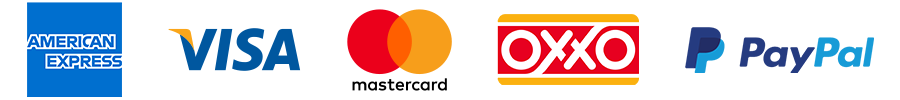
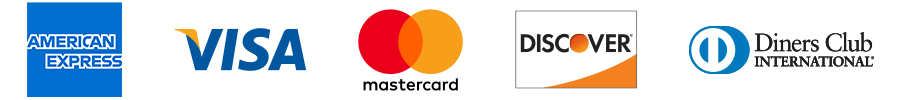
Updates
Last changes + Aviso de Privacidad

Changed region(s): [[0.3733, 0.09, 0.7156, 0.93], [0.7467, 0.24, 0.9956, 0.75], [0.1867, 0.27, 0.3422, 0.72]]

diff --git a/privacidad.html b/privacidad.html
@@ -1,0 +1,69 @@
+<!DOCTYPE HTML>
+<html>
+	<head>
+		<title>Aviso de Privacidad: Dynamic Network® Group</title>
+		<meta charset="utf-8" />
+		<meta http-equiv="X-UA-Compatible" content="ie=edge" />
+    	<link rel="icon" href="trin.ico" type="image/x-icon" />
+		<meta name="viewport" content="width=device-width, initial-scale=1, user-scalable=no" />
+		<link rel="stylesheet" href="assets/css/main.css" />
+		<noscript><link rel="stylesheet" href="assets/css/noscript.css" /></noscript>
+		<link rel="stylesheet" type="text/css" href="https://stackpath.bootstrapcdn.com/font-awesome/4.7.0/css/font-awesome.min.css">
+	</head>
+	<body class="is-preload">
+		<!-- Wrapper -->
+			<div id="wrapper">
+
+				<!-- Intro -->
+					<section id="intro" class="wrapper style1 fullscreen fade-up">
+						<div class="inner">
+							<div style="text-align: center; margin-top: inherit;">
+								<a href="index.html" class="iconpriv"><img src="images/logo_dnis.png" class="logoDnis"></a>
+								<h3 style="color: #231f20">Políticas de Privacidad</h3>
+								<div class="txtpriv">
+									<h5>Aviso de Privacidad</h5>
+									<p style="padding-top: 20px;">Con base en la Ley Federal de Protección de Datos Personales en Posesión de Particulares, las plataformas AutoEvalua.com, DynamicNetwork.net y MXCrossBorder.com son operadas por Dynamic Network®, reconocen que la Privacidad y la Seguridad de su información personal es un derecho, por lo cual están comprometidos a resguardar su información personal con los más altos índices de seguridad legal, tecnológica y administrativa. Así mismo, a no vender, alquilar, compartir o divulgar su información personal a terceros con fines ilícitos o contrarios a los de su titular. De acuerdo a lo anterior, el presente “Aviso de Privacidad” se aplica a toda la información, incluyendo la información personal recopilada por AutoEvalua.com, DynamicNetwork.net o MXCrossBorder.com así como terceros* con los que DynamicNetwork® celebre o vaya a celebrar relación contractual, a efecto de brindar servicios personalizados, contando siempre con los mismos niveles de seguridad exigidos por ley. Por lo antes mencionado, y al momento de leer el presente “Aviso de Privacidad”, usted otorga su consentimiento a AutoEvalua.com, DynamicNetwork.net y MXCrossBorder.com para recopilar y utilizar sus datos personales para los fines que más adelante se especifican. Se entenderá que ha otorgado su consentimiento, si usted no manifiesta su oposición para que sus datos personales sean transferidos al presentarle el presente aviso de privacidad.</p>
+									<p>En general datos personales. En la recopilación y tratamiento de dicha información DynamicNetwork® se compromete y obliga observar y cumplir los principios de licitud, consentimiento, información, calidad, finalidad, lealtad, proporcionalidad y responsabilidad. Esto es, todos los datos que le solicitamos son recabados de manera lícita conforme a Ley Federal de Protección de Datos en Posesión de los Particulares, con el consentimiento de usted, recopilando única y exclusivamente los datos, pertinentes, correctos y actualizados.</p>
+									<br>
+									<h5>¿Cuándo recopilamos la información?</h5>
+									<p>Cuando solicita nuestros servicios a través de nuestros agentes de ventas o cuando ellos se los ofrecen, cuando visita nuestro sitio web en internet, en puntos de venta y por medio telefónico cuando nos solicita una actualización o modificación a los datos registrados previamente en contrato. Los datos que requerimos son: Nombre, Dirección, Teléfono, correo electrónico, edad, género, lugar y fecha de nacimiento, R.F.C., C.U.R.P., datos del vehículo a asegurar, entre otros.</p>
+									<br>
+									<h5>¿Para qué, utilizamos o compartimos la información?</h5>
+									<p>Utilizamos la información personal que usted nos proporciona, solo para brindarle los productos y servicios que nos solicita y para informarle de nuestros nuevos productos o bien para identificarlo en cualquier tipo de relación jurídica o de negocios con DynamicNetwork® así como terceros*.</p>
+									<p style="font-size: .7em !important; color: #403c3d !important;">* Terceros son aquellas empresas (aseguradoras y/o proveedores) que son debidamente contratadas con cláusulas de confidencialidad de información y de protección de datos personales.</p>
+									<br>
+									<p>Le recordamos que en materia de Protección de Datos Personales, usted podrá ejercer sus derechos denominados “ARCO” de acuerdo a lo siguiente:</p>
+									<p><b>Acceso: </b>Podrá elegir la manera de comunicarse con nosotros mediante una llamada telefónica al número 800DYNAMIC  o bien por escrito a nuestro correo electrónico, para saber si DynamicNetwork® cuenta con sus datos personales.</p>
+									<p><b>Rectificación: </b>Usted podrá solicitarnos que cualquiera de sus datos sea corregido, en caso de que tengamos registrado alguno erróneamente.</p>
+									<p><b>Cancelación: </b>Podrá pedir que cancelemos o demos de baja sus datos siempre y cuando exista una causa que justifique dicha acción y no tenga obligación pendiente de cubrir a Dynamic Network® o a la aseguradora con quien haya contratado su póliza de seguro.</p>
+									<p><b>Oposición: </b>En caso de que usted no tenga relación u obligación legal alguna con nosotros y decida no contratar ninguno de nuestros servicios, puede hacer uso de este derecho, no compartiendo dato alguno.</p>
+									<br>
+									<h5>¿Dónde contactarnos?</h5>
+									<p>En caso de que tenga alguna pregunta o desee ejercer cualquiera de sus derechos “ARCO” arriba mencionados, puede contactarnos a través de nuestro departamento de datos personales en días y horas hábiles a través del siguiente correo electrónico: <a href="mailto:avisoprivacidad@dynamicnetwork.net" class="privacidad" style="color: #ff871d;"> avisoprivacidad@dynamicnetwork.net</a> La presente manifestación, se realiza en términos de los Art. 16,17 y demás relativos de la Ley Federal de Datos Personales en Posesión de Particulares.</p>
+									<br>
+								</div>
+								
+							</div>
+						</div>
+					</section>
+								
+
+			</div>
+		<!-- Footer -->
+			<footer style="position: fixed; bottom: 0px; width: 100vw; background-color: #231f20;">
+	            <div style="margin: 0 auto;">
+	                    <p class="footertxt">Powered by Dynamic Network®</p>
+	                </div>
+        	</footer>
+
+		<!-- Scripts -->
+			<script src="assets/js/jquery.min.js"></script>
+			<script src="assets/js/jquery.scrollex.min.js"></script>
+			<script src="assets/js/jquery.scrolly.min.js"></script>
+			<script src="assets/js/browser.min.js"></script>
+			<script src="assets/js/breakpoints.min.js"></script>
+			<script src="assets/js/util.js"></script>
+			<script src="assets/js/main.js"></script>
+
+	</body>
+</html>

diff --git a/index.html b/index.html
@@ -1,7 +1,7 @@
 <!DOCTYPE HTML>
 <html>
 	<head>
-		<title>Dynamic Network®</title>
+		<title>Dynamic Network® Group</title>
 		<meta charset="utf-8" />
 		<meta http-equiv="X-UA-Compatible" content="ie=edge" />
     	<link rel="icon" href="trin.ico" type="image/x-icon" />
@@ -61,7 +61,7 @@
 							<div class="content">
 								<div class="inner">
 									<h2>En México:</h2>
-									<p>Somos un Broker de Seguros autorizado por la CNSF, para intermediar todos los ramos de seguros (excepto agrícola).</p>
+									<p>Dynamic Network® Agente de Seguros es un Broker de Seguros autorizado por la CNSF, para intermediar todos los ramos de seguros (excepto agrícola).</p>
 									<p style="color: #ff871d;">CNSF – Oficio Autorización:06-367-11-1.2/04806</p>
 								</div>
 							</div>
@@ -69,7 +69,7 @@
 						<section class="wrapper style4 fade-up">
 							<div class="inner">
 								<img src="images/ae_seguros_originalbco_transp.png" alt="" style="width: 12em;">
-								<p>Mediante nuestra plataforma AutoEvalua® Seguros se pueden realizar cotizaciones simultáneas con las principales aseguradoras.</p>
+								<p>AutoEvalua® Seguros es una plataforma “multi” dinámica y versátil, ya que es multi-aseguradoras, multi-productos (ramos), multi-pagos (tarjetas débito, crédito, Oxxo y PayPal), multi-plazos (anual o mensual) y multi-paquetes (distintas coberturas por paquete).</p>
 								<div class="features">
 									<section>
 										<span class="icon solid major"><img src="images/icon_auto.svg"></span>
@@ -126,8 +126,8 @@
 						<section class="wrapper fade-up" style="background-color: #403c3d;">
 							<div class="inner payment">
 								<div style="text-align: center; background-color: rgb(255, 255, 255, 0.8);">
-									<p style="padding-top: 20px; color: #231f20;">Contamos con diversas opciones de pago y trabajamos con las mejores aseguradoras:</p>
-									<img src="images/payment.png" class="logoDnis">
+									<p style="padding-top: 20px; color: #231f20; line-height: 1em;">Trabajamos con las principales aseguradoras y<br>contamos con diversas opciones y medios de pago:</p>
+									<img src="images/payment.png" style="width: 60%;">
 								</div>
 							</div>
 						</section>
@@ -207,7 +207,7 @@
 							<div class="content">
 								<div class="inner">
 									<h2>En Estados Unidos</h2>
-									<p>Somos un Broker de Seguros y contamos con licencias de Property, Casualty y Surplus Line Broker en los estados de Arizona, California, Illinois, Nevada, Nuevo México, Texas y Washington.</p>
+									<p>Dynamic Network® Insurance Services es un Broker de Seguros que cuenta con licencias de Property, Casualty y Surplus Line Broker en los estados de Arizona, California, Illinois, Nevada, Nuevo México, Texas y Washington.</p>
 								</div>
 							</div>
 						</section>
@@ -215,9 +215,9 @@
 							<div class="container" style="margin: 0 auto;">
 								
 								<div class="infodnis">
-									<p style="padding-top: 1em;">Somos un Agente General Apoderado (MGA) de las principales aseguradoras mexicanas en los Estados Unidos.</p>
+									<p style="padding-top: 1em;">Somos Agente General Apoderado (MGA) de las principales aseguradoras mexicanas en los Estados Unidos.</p>
 									<p>Nuestro enfoque es proveer una solución integral a las aseguradoras mexicanas que quieren comercializar el seguro de Auto Turista en los Estados Unidos, apoyándolas con la gestión comercial, administrativa y operativa a través de la plataforma AutoEvalua® Turistas, además de brindar atención bilingüe a sus agentes.</p>
-									<p>Somos especialistas en Seguro de Auto Turista (Northbound & Southbound).</p>
+									
                                 </div>
                                 <p style="color: #ff871d; text-align: center;">Licencias Surplus Line Broker en Estados Unidos:</p>
                                 <div class="row hide-on-mobile">
@@ -279,7 +279,7 @@
 									</section>
 									<section class="mxbicon">
 										<span class="icon solid major2"><i class="fa fa-lg fa-tachometer"></i></span>
-										<p>Personalizamos la plataforma MXCrossBorder con la información y logo del Agente/Agencia en un micrositio que llamamos B2C.</p>
+										<p>Personalizamos la plataforma MXCrossBorder con la información y logo del Agente/Agencia en un micrositio B2C.</p>
 									</section>
 									<section class="mxbicon">
 										<span class="icon solid major2"><i class="fa fa-lg fa-line-chart"></i></span>
@@ -293,6 +293,7 @@
 
 						<section style="background-color: #403c3d !important;">
 							<div class="content2" style="margin: 0 auto; padding-bottom: 2em;">
+								<h4 style="text-align: center;">Expertos en Seguros de Auto Turista (Northbound & Southbound).</h4>
 								<div class="row">
 								  <div class="col-6" style="text-align: center !important;">
 								    <img src="images/southbound.png" style="width:85%">
@@ -309,8 +310,8 @@
 						<section class="wrapper fade-up" style="background-color: #403c3d;">
 							<div class="inner payment">
 								<div style="text-align: center; background-color: rgb(255, 255, 255, 0.8);">
-									<p style="padding-top: 20px; color: #231f20;">Contamos con diversas opciones de pago y trabajamos con las mejores aseguradoras:</p>
-									<img src="images/payment.png" class="logoDnis">
+									<p style="padding-top: 20px; color: #231f20; line-height: 1em;">Trabajamos con las principales aseguradoras y<br>contamos con diversas opciones y medios de pago:</p>
+									<img src="images/payment2.png" style="width: 60%;">
 								</div>
 							</div>
 						</section>
@@ -444,7 +445,7 @@
 				                </div>
 				            </div>
 				            <div>
-								<div style="padding-bottom: 15px; text-align: center; color: #ff871d; padding-top: 7em;">
+								<div style="padding-bottom: 15px; text-align: center; color: #ff871d; padding-top: 4em;">
 									<p style="font-size: .7em;"><a href="privacidad.html" target="_blank" class="privacidad">Consulta nuestro Aviso de Privacidad</a></p>
 								</div>
 							</div>

diff --git a/assets/css/main.css b/assets/css/main.css
@@ -4044,6 +4044,10 @@ div.contentcarr {
 	width: 50vw !important;
 }
 
+a.iconpriv img.logoDnis{
+	width: 15%;
+}
+
 @media screen and (max-width: 700px) {
 .hide-on-mobile{
     display:none!important;
@@ -4069,6 +4073,10 @@ div.contentcarr {
 	.payment{
 	width: 100vw !important;
 	}
+
+	a.iconpriv img.logoDnis{
+	width: 50%;
+}
 }
 
 li.iconsinfo{
@@ -4160,5 +4168,22 @@ h6.mailinfo a:hover{
 
 a.privacidad:hover{
 	color: #757575;
+}
+
+.txtpriv *{
+	text-align: left !important;
+}
+
+.txtpriv h4{
+	color: #ff871d;
+}
+
+.txtpriv p{
+	color: #231f20;
+	font-size: .8em !important;
+}
+
+.txtpriv p > b{
+	color: #231f20;
 }
 
